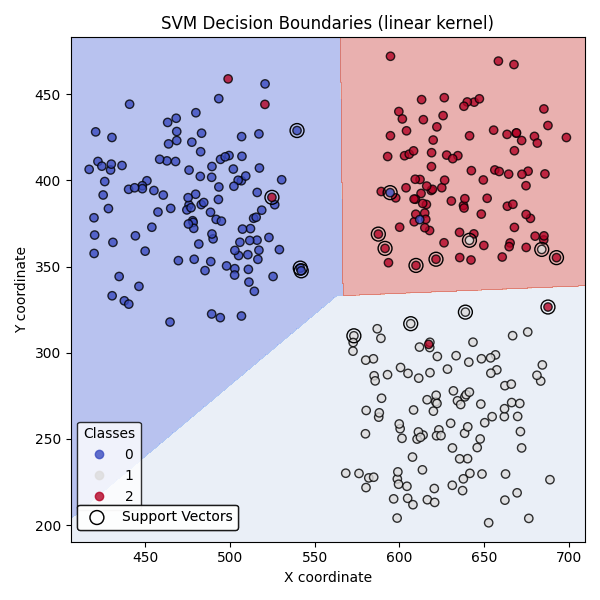
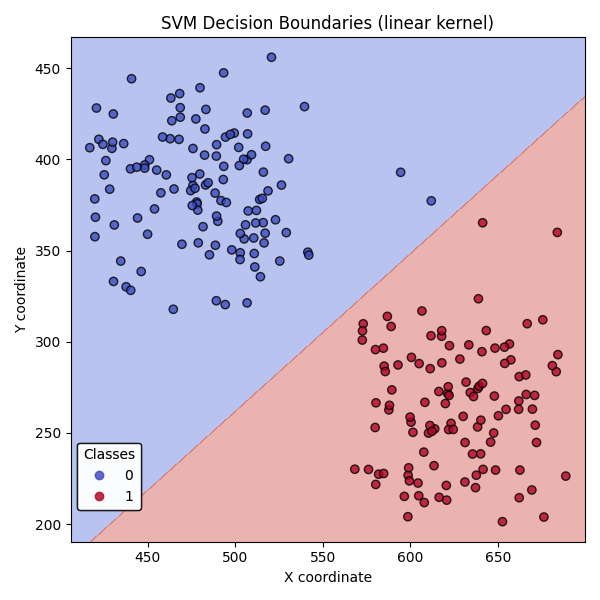
2-class analysis SVM completo, todo ok

diff --git a/classes/SVM.py b/classes/SVM.py
@@ -9,7 +9,7 @@ from sklearn.preprocessing import label_binarize
 
 class SVM():
     """
-    SVM Classifier Class for multiclass problems.
+    SVM Classifier Class for two-class problems.
 
     Attributes:
         - train_data: DataFrame of training features.
@@ -17,28 +17,24 @@ class SVM():
         - kernel: Kernel type to be used in the SVM ('linear', 'rbf', 'poly' or 'sigmoid')
         - C: Regularization parameter for the SVM.
         - gamma: Kernel coefficient for ‘rbf’, ‘poly’ and ‘sigmoid’.
-        - multiclass: method used for multiclass classification, One-Vs-One: 'ovo' or One-Vs-Rest: 'ovr'
         - degree: degree when the polynomial kernel is used
     """
 
     def __init__(self, train_data: pd.DataFrame, train_labels: pd.Series, kernel: str = 'rbf', C: float = 1.0,
-                 gamma: str = 'scale', multiclass: str ='ovo', degree: int = 2):
+                 gamma: str = 'scale', degree: int = 2):
         self.train_data = train_data
         self.train_labels = train_labels
         self.kernel = kernel
         self.C = C
         self.gamma = gamma
         self.model = None
-        self.multiclass = multiclass
         self.degree= degree
-        self.classes_ = np.unique(train_labels)
 
     def train(self):
         """
         Train the SVM model using the One-vs-Rest/One-vs-One strategy for multiclass classification.
         """
-        self.model = SVC(kernel=self.kernel, C=self.C, gamma=self.gamma, decision_function_shape=self.multiclass,
-                         degree=self.degree)
+        self.model = SVC(kernel=self.kernel, C=self.C, gamma=self.gamma, degree=self.degree)
         self.model.fit(self.train_data, self.train_labels)
 
     def predict(self, data: pd.DataFrame):
@@ -69,11 +65,9 @@ class SVM():
         y_pred = self.model.predict(test_data)
         elapsed_time = time.time() - start_time
         performance = elapsed_time / len(test_labels)
-        model_metrics = [accuracy_score(test_labels, y_pred),performance,roc_auc_score(test_labels, y_pred,
-                                                                                       multi_class=self.multiclass),
-                         recall_score(test_labels, y_pred), precision_score(test_labels, y_pred), f1_score(test_labels,
-                                                                                                           y_pred),
-                         confusion_matrix(test_labels, y_pred)]
+        model_metrics = [accuracy_score(test_labels, y_pred),performance,roc_auc_score(test_labels, y_pred),
+                         recall_score(test_labels, y_pred), precision_score(test_labels, y_pred),
+                         f1_score(test_labels,y_pred), confusion_matrix(test_labels, y_pred)]
 
         return model_metrics
 

diff --git a/prueba.py b/prueba.py
@@ -16,14 +16,14 @@ y = df.iloc[:, -1]  # The last column is the label (the class)
 X_train, X_test, y_train, y_test = train_test_split(X, y, test_size=0.2, random_state=42)
 
 # Create an instance of the SVM class with the training data
-def_kernel='rbf'
-svm_classifier = SVM(train_data=X_train, train_labels=y_train, kernel=def_kernel, C=1.0, multiclass='ovr')
+def_kernel='linear'
+svm_classifier = SVM(train_data=X_train, train_labels=y_train, kernel=def_kernel, C=1.0)
 
 # Train the SVM model using One-vs-Rest (OvR)
 svm_classifier.train()
 
 # Evaluate the model on the test set
-# print(svm_classifier.evaluate(X_test,y_test))
+print(svm_classifier.evaluate(X_test,y_test))
 
 # Create a visualization of the data and decision boundaries
 def plot_decision_boundary_and_data(X, y, model, title="SVM Decision Boundary"):
@@ -62,32 +62,13 @@ def plot_decision_boundary_and_data(X, y, model, title="SVM Decision Boundary"):
     plt.title(title)
     plt.xlabel('X coordinate')
     plt.ylabel('Y coordinate')
-
-    # Add support vectors if available
-    if hasattr(model, 'support_vectors_'):
-        plt.scatter(model.support_vectors_[:, 0], model.support_vectors_[:, 1],
-                    s=100, linewidth=1, facecolors='none', edgecolors='k',
-                    label='Support Vectors')
-        legend2=plt.legend(loc='lower left', bbox_to_anchor=(0.0, 0.01))
-        # Add legend
-
-        # Set the facecolor of the legend to white
-        legend2.get_frame().set_facecolor('white')
-
-        # Optionally, set the edge color of the legend to black (or any color you want)
-        legend2.get_frame().set_edgecolor('black')
-
-        # Add the legend to the axes
-        plt.gca().add_artist(legend2)
-
     plt.tight_layout()
     return plt
 
 
 # Plot the data and decision boundaries
-plt = plot_decision_boundary_and_data(X, y, svm_classifier,
-                                      title=f"SVM Decision Boundaries ({def_kernel} kernel)")
+plt = plot_decision_boundary_and_data(X, y, svm_classifier, title=f"SVM Decision Boundaries ({def_kernel} kernel)")
 
-plt.savefig('RBF_kernel_example.png')
+plt.savefig('Linear_kernel_example.png')
 plt.show()
 

diff --git a/Hepatitis/testSVM.py b/Hepatitis/testSVM.py
@@ -57,7 +57,7 @@ def total_analysis(def_kernel, C_value):
         x_train, y_train, x_test, y_test = load_fold_data(n,'..\\datasets\\hepatitis')
 
         # Create an instance of the SVM class with the training data
-        svm_classifier = SVM(train_data=x_train, train_labels=y_train, kernel=def_kernel, C=C_value, gamma='auto',multiclass='ovr')
+        svm_classifier = SVM(train_data=x_train, train_labels=y_train, kernel=def_kernel, C=C_value, gamma='auto')
 
          # Train the SVM model
         svm_classifier.train()
